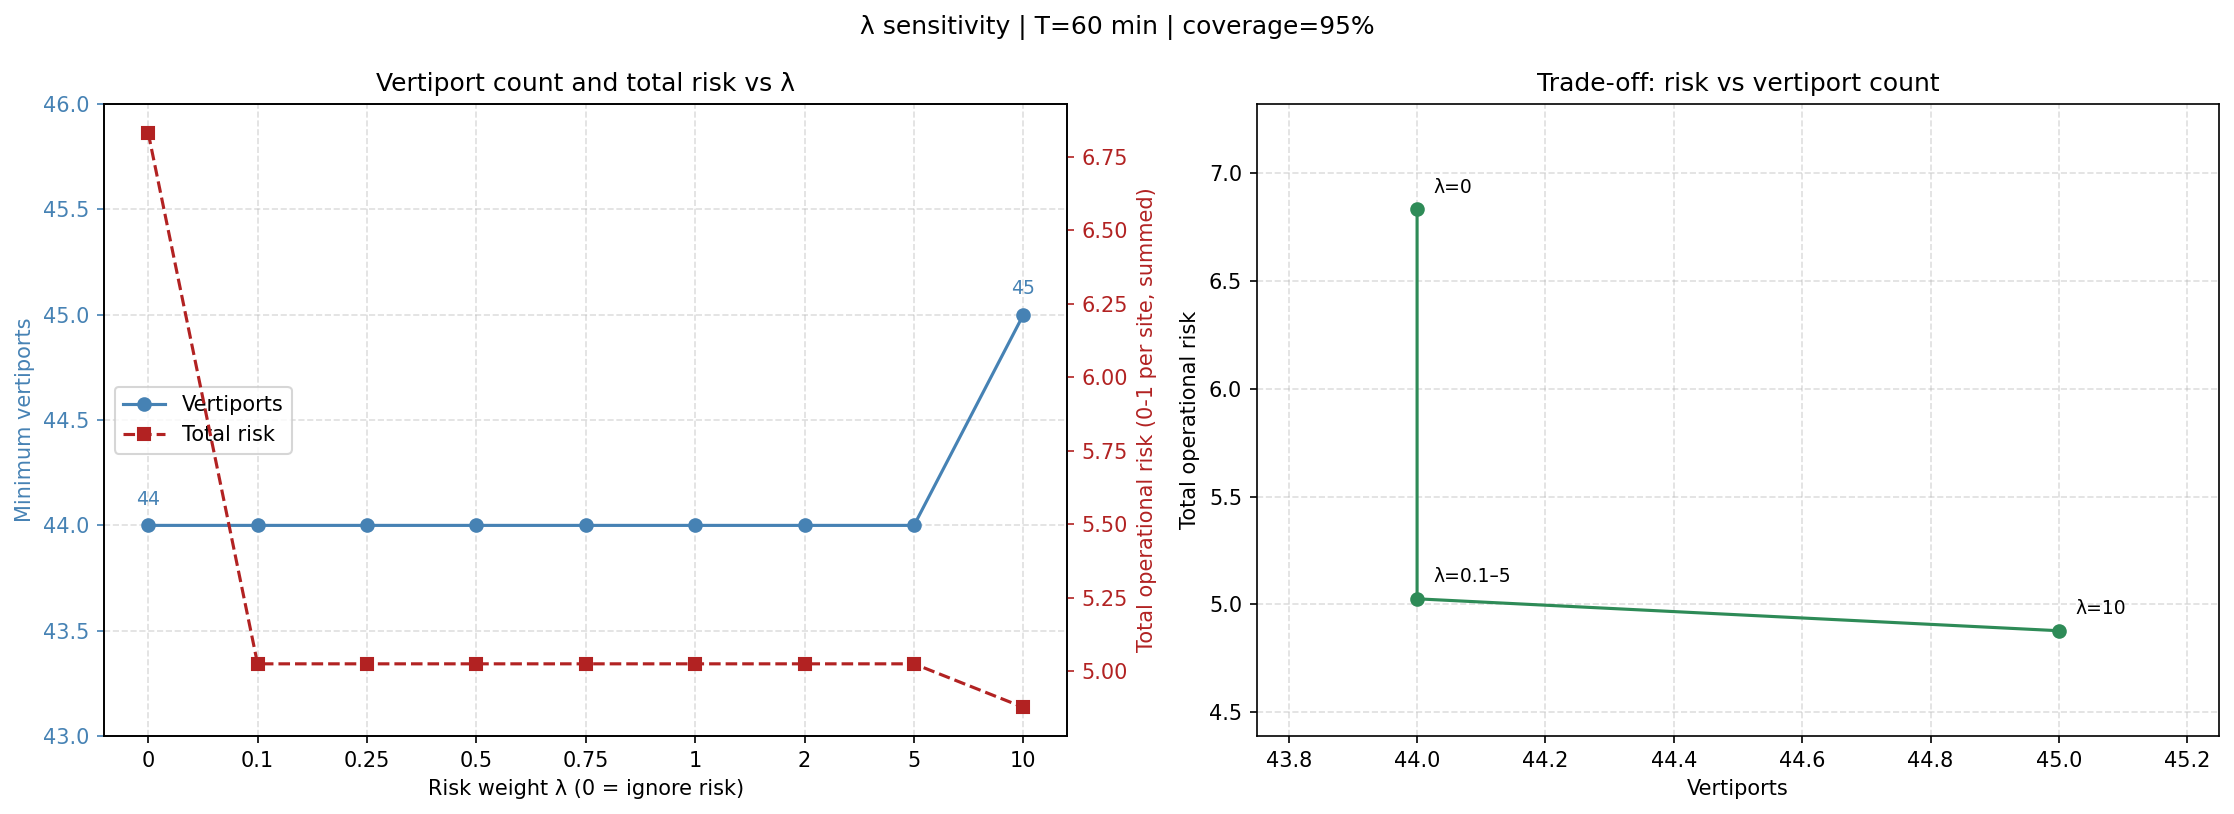
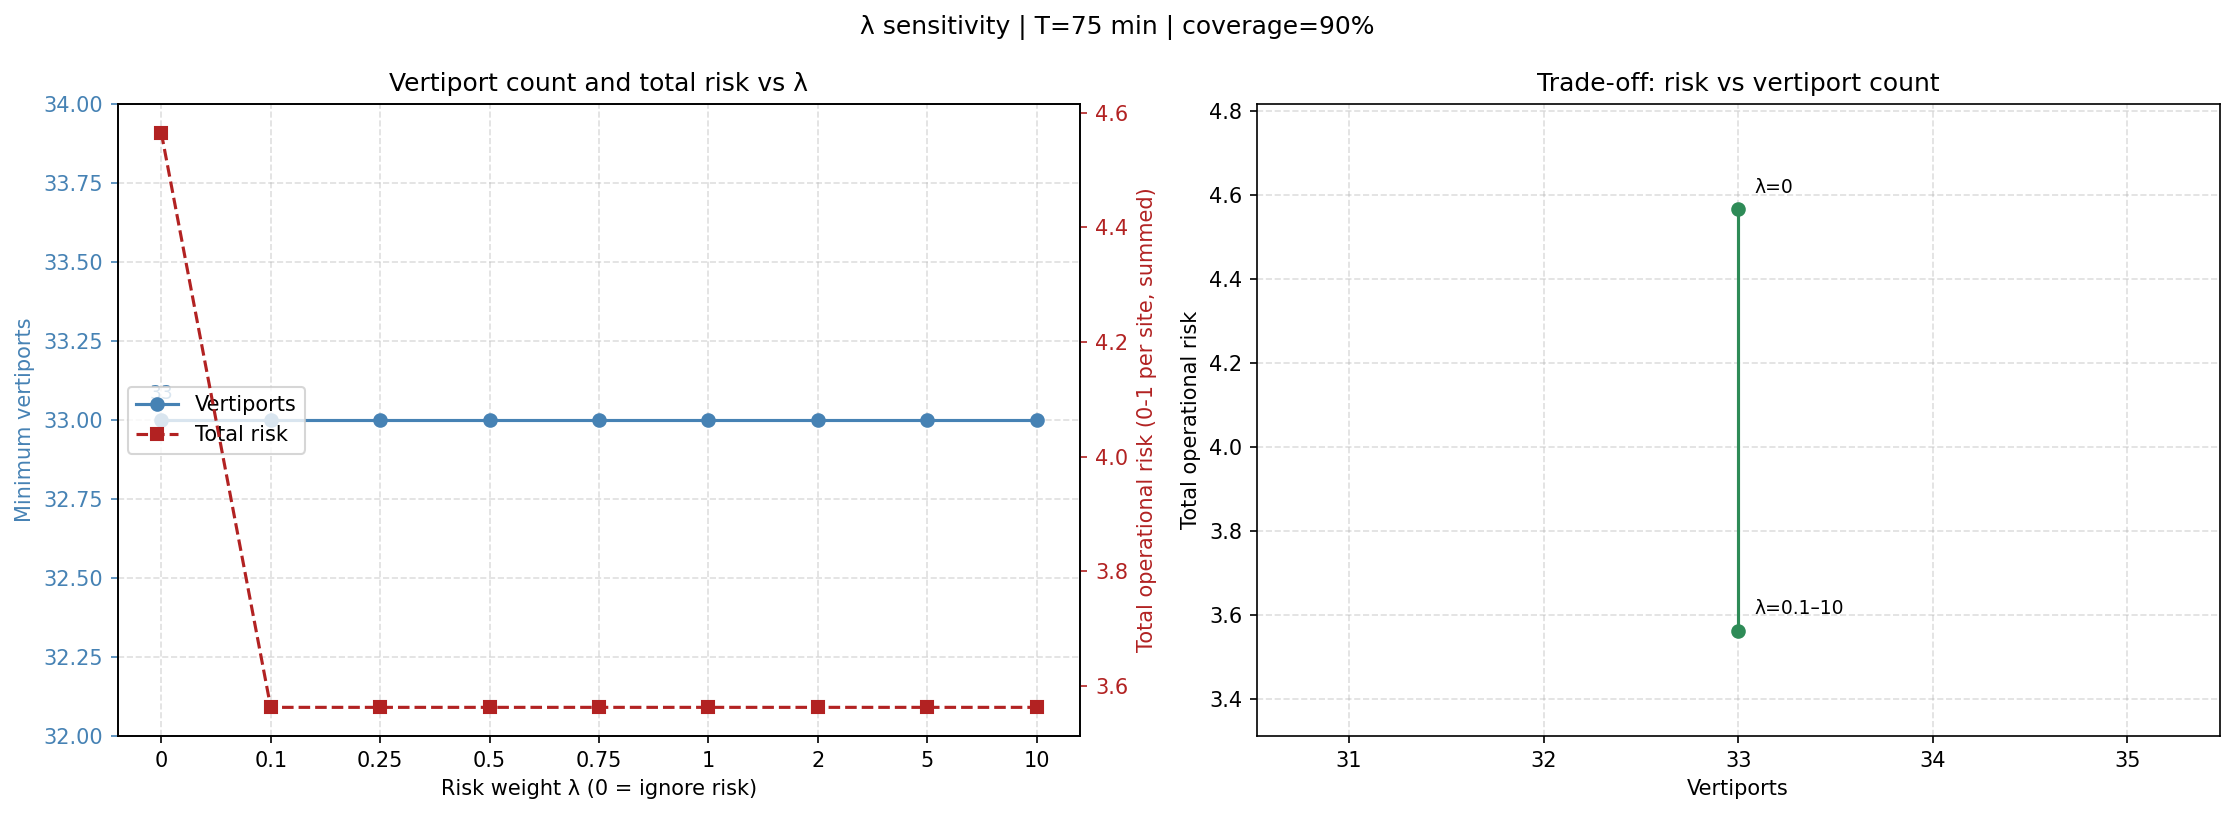
Add files via upload

diff --git a/model/Combined Parameters/updated_parametric_model.py b/model/Combined Parameters/updated_parametric_model.py
@@ -40,8 +40,8 @@ demand_population = dict(zip(dfj['SA2_Name'], dfj['population']))
 # ─────────────────────────────────────────────────────────────
 
 UAV_SPEED_KMH      = 250
-TIME_THRESHOLD     = 60
-COVERAGE_THRESHOLD = 0.95
+TIME_THRESHOLD     = 75
+COVERAGE_THRESHOLD = 0.90
 
 # How strongly risk trades against vertiport count.
 # Higher = accept more vertiports to avoid risky sites.
@@ -99,7 +99,7 @@ def flight_min(j, k) -> float:
 
 dfh = pd.read_excel('Emergency_hospitals_with_lat_lon.xlsx')
 
-d_ih = pd.read_excel('vertiport_hospital_distances_emergency.xlsx')
+d_ih = pd.read_excel('vertiport_hospital_distances.xlsx')
 d_ih = d_ih.set_index('vertiport')
 d_ij = pd.read_excel('d_ij.xlsx')
 
@@ -291,7 +291,7 @@ else:
 # ─────────────────────────────────────────────────────────────
 # LAMBDA SENSITIVITY ANALYSIS
 # ─────────────────────────────────────────────────────────────
-lambda_analysis = True  # set to True to run lambda sensitivity analysis
+lambda_analysis = False  # set to True to run lambda sensitivity analysis
 if lambda_analysis:
     lambda_values = [0.0, 0.1, 0.25, 0.5, 0.75, 1.0, 2.0, 5.0, 10.0]
     lambda_results = []
@@ -386,7 +386,7 @@ if lambda_analysis:
 # ─────────────────────────────────────────────────────────────
 # SENSITIVITY ANALYSIS
 # ─────────────────────────────────────────────────────────────
-Run_analysis = True # set to True to run sensitivity analysis
+Run_analysis = False # set to True to run sensitivity analysis
 
 if Run_analysis:
     time_thresholds  = [30, 45, 60, 75, 90, 105, 120]
